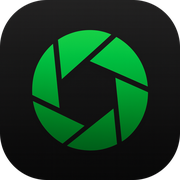
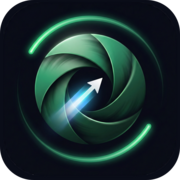
fix(website): use Capturia's own branding and render the roadmap on the site (#9)
The live site was still wearing upstream's clothes, and the roadmap sent visitors away to GitHub. Both fixed.

## The branding was worse than "similar"

`website/static/img/logo-icon.png` was **byte-identical** to upstream's — md5 `3bc900c7d1a637ed5e2a65bf0b86ab08` on both. So was `apple-touch-icon.png`, and `og-image.png` literally rendered the wordmark "OpenScreen" on every link anyone shared.

Meanwhile this fork **already owns its icon**: `icons/icons/png/` differs from upstream's and carries our own commits (`7884e396`, `2438b021`, `c2744b39`, all about removing white edge artifacts). `electron-builder.json5` ships it on all three platforms. The app showed Capturia's logo; the website showed upstream's.

So the fix derives the web assets from the icon we already have rather than inventing art. `scripts/generate-website-brand-assets.sh` does it reproducibly, from `icons/icons/png/1024x1024.png`, at the existing dimensions so nothing reflows.

The OG card keeps upstream's composition — measured, not eyeballed: text baselines land on the original pixels (345 / 412 / 491), runs centred at x≈600, the 5px `#10b981` rule on rows 625-629. What changed is what was wrong: the glyph, the wordmark, and the tagline, which now reads verbatim from `docusaurus.config.ts` instead of upstream's copy. "MIT licensed" was checked against `LICENSE` and `package.json` rather than carried over on faith.
[…]

diff --git a/website/docusaurus.config.ts b/website/docusaurus.config.ts
@@ -291,7 +291,10 @@ export default async function createConfig(): Promise<Config> {
 						className: "navbar-link-strong",
 					},
 					{
-						href: `${REPO_URL}/blob/main/ROADMAP.md`,
+						// The roadmap is a real route now (src/pages/roadmap.mdx renders
+						// the repo-root ROADMAP.md), so this is a router link rather than
+						// an href that bounced visitors out to a raw file on GitHub.
+						to: "/roadmap",
 						label: "Roadmap",
 						position: "left",
 					},

diff --git a/website/sidebars.ts b/website/sidebars.ts
@@ -27,7 +27,7 @@ const sidebars: SidebarsConfig = {
 				{
 					type: "link",
 					label: "Roadmap",
-					href: "https://github.com/MinhOmega/Capturia/blob/main/ROADMAP.md",
+					href: "/roadmap",
 				},
 			],
 		},

diff --git a/ROADMAP.md b/ROADMAP.md
@@ -1,19 +1,21 @@
-# OpenScreen Roadmap
+# Capturia Roadmap
 The recorder you love, with an optional AI sidekick. Same sleek, low-friction recorder UX. An opt-in AI editing layer is on the way for users who want it — never required, never snuck in.
 
-This roadmap is the source of truth for what we're shipping next in OpenScreen. It is a living document — items move between tiers as work lands. Have an idea, a vote, or a dissenting opinion? Drop into the 🗺・roadmap channel on our Discord or open a GitHub issue with the `roadmap` label.
+This roadmap is the source of truth for what we're shipping next in Capturia. It is a living document — items move between tiers as work lands. It is also published on the site at [minhvo.is-a.dev/Capturia/roadmap](https://minhvo.is-a.dev/Capturia/roadmap), rendered from this file. Have an idea, a vote, or a dissenting opinion? Open a GitHub issue with the `roadmap` label.
+
+Capturia is a fork of [getopenscreen/openscreen](https://github.com/getopenscreen/openscreen), re-baselined onto upstream v1.10.0. Items below that came from upstream's tracker are linked as **upstream #N** and point at upstream's issues, not ours — the numbers are theirs, and renumbering them here would only break the trail back to the original report.
 
 ## 🧭 North Star
 **Record → Edit → Export.** (with an optional AI shortcut for users who want one)
 
-OpenScreen is, first and foremost, a polished screen recorder. Record, trim on the timeline, export. Most users will keep using exactly this workflow.
+Capturia is, first and foremost, a polished screen recorder. Record, trim on the timeline, export. Most users will keep using exactly this workflow.
 
 There is also an optional AI editing layer — for users who want to edit by talking or by editing a transcript. It's opt-in, off by default, and never required. If you don't enable it, the AI layer doesn't exist for your install: nothing downloads, nothing leaves your machine, no LLM is contacted.
 
 Three axes guide every decision on this roadmap:
 
 - **Stability first** — the recorder must work reliably on macOS, Windows, and Linux. Bugs found by real users ship before new features.
-- **Sleek UX stays** — every AI feature must keep the OpenScreen feel: minimal clicks, instant feedback, no clutter.
+- **Sleek UX stays** — every AI feature must keep the Capturia feel: minimal clicks, instant feedback, no clutter.
 - **100% free, forever** — no paywalls, no premium tier, no usage caps. Every feature on this page ships under MIT.
 
 ## 🤖 The optional AI Edition — shipped, off by default
@@ -25,7 +27,7 @@ What ships today (each one opt-in, each one toggleable independently):
 - [x] **Transcript-driven editing (local)** — edit video like a doc: select words, press `Delete`, the span is cut from playback and export. Silences are marked inline and trimmable the same way. Word boundaries are re-anchored on the audio so a cut lands where the word actually starts.
 - [x] **Captions as a derived layer (local)** — cues are a live view of the transcript, not generated text you then maintain; restyle or regroup them with no regeneration step. Optional translation into 15 languages, stored beside the transcript and never in it.
 - [x] **Edit by chat (requires BYO LLM key)** — describe an edit in plain language; the agent applies real, undoable timeline operations (trims, zooms, speed, annotations, clip ranges, reordering). Off until you connect a provider.
-- [x] **Non-destructive project document (always on)** — `.openscreen` projects keep every edit re-editable, and `Ctrl/Cmd + Z` covers agent edits exactly like manual ones.
+- [x] **Non-destructive project document (always on)** — `.capturia` projects keep every edit re-editable, and `Ctrl/Cmd + Z` covers agent edits exactly like manual ones. Projects saved by older builds under `.openscreen` or `.axcut` still open; they're migrated, never orphaned.
 - [x] **Bring-your-own LLM (opt-in)** — Anthropic, OpenAI, Google, Mistral, OpenRouter, MiniMax, and any OpenAI-compatible endpoint. Keys live in your OS credential store via Electron `safeStorage`; requests go straight from your machine to the provider. We never see them, because there is no server to see them with.
 
 Still open on this axis:
@@ -40,33 +42,33 @@ That engine ran on Direct3D 11 only until 1.8.0, which made this the largest gap
 
 - [x] **MP4 export on macOS** — Metal render pipeline with VideoToolbox decode and encode, a CoreText text rasterizer, and audio muxed into the output. All nine shader entry points are ported to MSL, so annotations, the cursor and its trail, the 3D tilt zoom and the dual-Kawase blur all render there.
 - [x] **MP4 export on Linux** — wgpu/WGSL pipeline with software H.264 encode, MP4 mux and AAC audio.
-- [x] **Feature:** software fallback when no GPU encoder is available — [#18](../../issues/18). A CPU backend (software render + decode) is selected automatically and surfaced in the UI, and reaches the export encoder like any other backend. Direct3D 11 now fails legibly rather than silently degrading to WARP.
+- [x] **Feature:** software fallback when no GPU encoder is available — [upstream #18](https://github.com/getopenscreen/openscreen/issues/18). A CPU backend (software render + decode) is selected automatically and surfaced in the UI, and reaches the export encoder like any other backend. Direct3D 11 now fails legibly rather than silently degrading to WARP.
 
 Still open on this axis:
 
 - [ ] **Hardware encode on Linux** — the export path is correct but software-encoded, so it is slower than the Windows and macOS ones. The capture helper already uses a hardware H.264 encoder; the export pipeline does not.
-- [ ] **A discrete-GPU and Intel QSV measurement.** Every number in [rendering-performance.md](technical-documentation/engineering/rendering-performance.md) comes from one passive-iGPU laptop, deliberately chosen as the weak case. Nothing is measured on the hardware most users have.
+- [ ] **A discrete-GPU and Intel QSV measurement.** Every number in [rendering-performance.md](https://github.com/MinhOmega/Capturia/blob/main/technical-documentation/engineering/rendering-performance.md) comes from one passive-iGPU laptop, deliberately chosen as the weak case. Nothing is measured on the hardware most users have.
 
 ## 🛠 Stability & quality (what we're actually shipping)
-Pulled from real user bug reports on getopenscreen/openscreen. This is the queue for the next release window.
+Pulled from real user bug reports on upstream's tracker, [getopenscreen/openscreen](https://github.com/getopenscreen/openscreen/issues). Capturia inherits the code these reports describe, so it inherits the bugs. This is the queue for the next release window.
 
-- [ ] **Fix:** video disappears from editor after export — [#8](../../issues/8) (Linux, Manjaro). Renderer regression after export.
-- [ ] **Fix:** crash after stopping macOS recording — [#21](../../issues/21) (macOS 26.4.1, Apple Silicon). Crash is in the Electron / Node async fs shutdown path; recording artifacts are written correctly.
-- [ ] **Fix:** macOS cursor offset in single-window capture — [#22](../../issues/22).
-- [ ] **Fix:** recover preview from WebGL context loss on Linux / Wayland — [#19](../../issues/19).
-- [x] **Feature:** copy / paste attributes in the timeline — [#24](../../issues/24). `Ctrl/Cmd + C` / `Ctrl/Cmd + V` copy a selected region's attributes onto another region of the same kind.
-- [ ] **Feature:** right-click context menu for the copy / paste above — the other half of [#24](../../issues/24), still open.
-- [x] **Feature:** restore blur regions — [#76](../../issues/76). Shipped as an annotation **type** rather than its own region kind: Gaussian or mosaic, rectangle or oval, composited natively in both preview and export. Freehand is deliberately not offered when creating one — its input was broken and the renderer only ever masked the bounding box, and a half-reliable privacy tool is worse than no tool, because people trust it. Existing freehand shapes still render as their bounding box, with the inspector saying so.
+- [ ] **Fix:** video disappears from editor after export — [upstream #8](https://github.com/getopenscreen/openscreen/issues/8) (Linux, Manjaro). Renderer regression after export.
+- [ ] **Fix:** crash after stopping macOS recording — [upstream #21](https://github.com/getopenscreen/openscreen/issues/21) (macOS 26.4.1, Apple Silicon). Crash is in the Electron / Node async fs shutdown path; recording artifacts are written correctly.
+- [ ] **Fix:** macOS cursor offset in single-window capture — [upstream #22](https://github.com/getopenscreen/openscreen/issues/22).
+- [ ] **Fix:** recover preview from WebGL context loss on Linux / Wayland — [upstream #19](https://github.com/getopenscreen/openscreen/issues/19).
+- [x] **Feature:** copy / paste attributes in the timeline — [upstream #24](https://github.com/getopenscreen/openscreen/issues/24). `Ctrl/Cmd + C` / `Ctrl/Cmd + V` copy a selected region's attributes onto another region of the same kind.
+- [ ] **Feature:** right-click context menu for the copy / paste above — the other half of [upstream #24](https://github.com/getopenscreen/openscreen/issues/24), still open.
+- [x] **Feature:** restore blur regions — [upstream #76](https://github.com/getopenscreen/openscreen/issues/76). Shipped as an annotation **type** rather than its own region kind: Gaussian or mosaic, rectangle or oval, composited natively in both preview and export. Freehand is deliberately not offered when creating one — its input was broken and the renderer only ever masked the bounding box, and a half-reliable privacy tool is worse than no tool, because people trust it. Existing freehand shapes still render as their bounding box, with the inspector saying so.
 
 ## 📚 Site & documentation
-- [x] **Feature:** Docusaurus site — landing + docs, live at [getopenscreen.github.io/openscreen](https://getopenscreen.github.io/openscreen/), built from `website/` and deployed to GitHub Pages by `.github/workflows/docs.yml` on every push to `main`. Landing page plus a Features section covering recording, the media library, the timeline, captions, AI editing and export. MIT, no tracking, no paywall — same posture as the app.
+- [x] **Feature:** Docusaurus site — landing + docs, live at [minhvo.is-a.dev/Capturia](https://minhvo.is-a.dev/Capturia/), built from `website/` and deployed to GitHub Pages by `.github/workflows/docs.yml` on every push to `main`. Landing page plus a Features section covering recording, the media library, the timeline, captions, AI editing and export. MIT, no tracking, no paywall — same posture as the app.
+  - [x] This roadmap, rendered on the site at [/roadmap](https://minhvo.is-a.dev/Capturia/roadmap) instead of bouncing visitors to a raw file on GitHub. The page imports this document at build time, so it is exactly as current as the last deploy — there is no second copy to keep in step.
   - [ ] Custom domain.
   - [ ] Versioning — still off until v2.
   - Engineering docs stay in `technical-documentation/` on purpose: they track the code rather than the product, are link-checked by `npm run docs:check`, and aren't user-facing.
 
 ## 📬 How to influence this roadmap
-- **Discord** — join the OpenScreen Discord and post in [#🗺・roadmap](https://discord.com/channels/1489517664467681310/1493586210675884265). The fastest way to get a thumbs-up or thumbs-down on a feature.
-- **GitHub** — open an issue with the `enhancement` label, or react with 👍 / 👎 on existing items.
+- **GitHub** — open an issue with the `enhancement` label, or react with 👍 / 👎 on existing items. This is the fastest way to get a thumbs-up or thumbs-down on a feature.
 - **PRs** — if you want to ship one of these, open a PR and link the relevant issue. We review fast and help with native-bridge / i18n questions.
 
 Anything not on this list yet? Open an issue and tag it `roadmap` — we'll triage it into a tier within a week.
@@ -74,7 +76,11 @@ Anything not on this list yet? Open an issue and tag it `roadmap` — we'll tria
 ---
 
 ## Changelog
+Entries dated before 2026-09-10 are inherited from upstream's roadmap document and are kept as written: they record what upstream decided and when. Capturia's own entries start at 2026-09-10.
+
 - **2026-06-24** — initial draft. Stability items pulled from open issues / PRs on getopenscreen/openscreen. AI section presented as opt-in / off by default. Whisper entry updated to reflect existing caption feature.
 - **2026-06-25** — added "Site & documentation" tier: Docusaurus + GitHub Pages. Cleaned smoke-test noise from the changelog (internal CI sync validation, not user-facing).
 - **2026-07-06** — added blur regions to the stability & quality tier. Confirmed upstream deprecated the feature in v1.5.0 without an explicit reason; the renderer code carried over to the fork, so the work is unblocking the export guard + adding coverage. Tracked via #76.
-- **2026-07-27** — reconciled the roadmap with the code. The AI Edition tier moved from "a direction, not a sprint plan" to shipped: on-device transcription, transcript-driven editing, captions as a derived layer with translation, the chat agent, and `.openscreen` projects are all in. Provider list corrected — ChatGPT and GitHub Copilot were removed in 1.8.0 and are now blocked on the vendors' sanctioned surfaces, and MiniMax was missing. New "Rendering & platform parity" tier: preview and MP4 export share one native D3D11 compositor, and porting it off Windows is now the biggest open item; #18 moved there since it's an encoder concern. Blur (#76) marked shipped — as an annotation type, not a region kind, so the old note pointing at `src/lib/exporter/videoExporter.ts` was doubly stale (that file was deleted with the web export pipeline). Copy/paste (#24) split: the shortcuts shipped, the right-click menu didn't. Docusaurus site marked shipped.- **2026-08-01** — the platform-parity tier was the stalest thing on this page: it still described the compositor as Direct3D 11 and listed MP4 export on macOS and Linux as unstarted, while v1.8.0-rc.5 was already publishing DMGs and Linux packages built on the Metal and WGSL backends. #18 (software encoder fallback) shipped with them, as an automatically-selected CPU backend rather than an encoder flag. Two real gaps replace them: Linux export is software-encoded, and every performance number on record still comes from one passive-iGPU laptop. Also corrected the framing that produced this drift — the tier was written as "porting it off Windows is the biggest open item", which stayed true in the text long after it stopped being true in the tree.
+- **2026-07-27** — reconciled the roadmap with the code. The AI Edition tier moved from "a direction, not a sprint plan" to shipped: on-device transcription, transcript-driven editing, captions as a derived layer with translation, the chat agent, and the non-destructive project document are all in. Provider list corrected — ChatGPT and GitHub Copilot were removed in 1.8.0 and are now blocked on the vendors' sanctioned surfaces, and MiniMax was missing. New "Rendering & platform parity" tier: preview and MP4 export share one native D3D11 compositor, and porting it off Windows is now the biggest open item; #18 moved there since it's an encoder concern. Blur (#76) marked shipped — as an annotation type, not a region kind, so the old note pointing at `src/lib/exporter/videoExporter.ts` was doubly stale (that file was deleted with the web export pipeline). Copy/paste (#24) split: the shortcuts shipped, the right-click menu didn't. Docusaurus site marked shipped.
+- **2026-08-01** — the platform-parity tier was the stalest thing on this page: it still described the compositor as Direct3D 11 and listed MP4 export on macOS and Linux as unstarted, while v1.8.0-rc.5 was already publishing DMGs and Linux packages built on the Metal and WGSL backends. #18 (software encoder fallback) shipped with them, as an automatically-selected CPU backend rather than an encoder flag. Two real gaps replace them: Linux export is software-encoded, and every performance number on record still comes from one passive-iGPU laptop. Also corrected the framing that produced this drift — the tier was written as "porting it off Windows is the biggest open item", which stayed true in the text long after it stopped being true in the tree.
+- **2026-09-10** — rebranded this document to Capturia and published it on the site at `/roadmap`. Upstream's issue numbers are now linked as `upstream #N` against getopenscreen/openscreen, where they actually live: relative `../../issues/N` links resolved to *this* repo, where those numbers are unrelated PRs. Corrected the project file extension (`.capturia`; `.openscreen` and `.axcut` still open as legacy) and the site URL. Dropped the Discord section — that invite pointed at upstream's server, and Capturia does not run one; GitHub issues are the channel.
